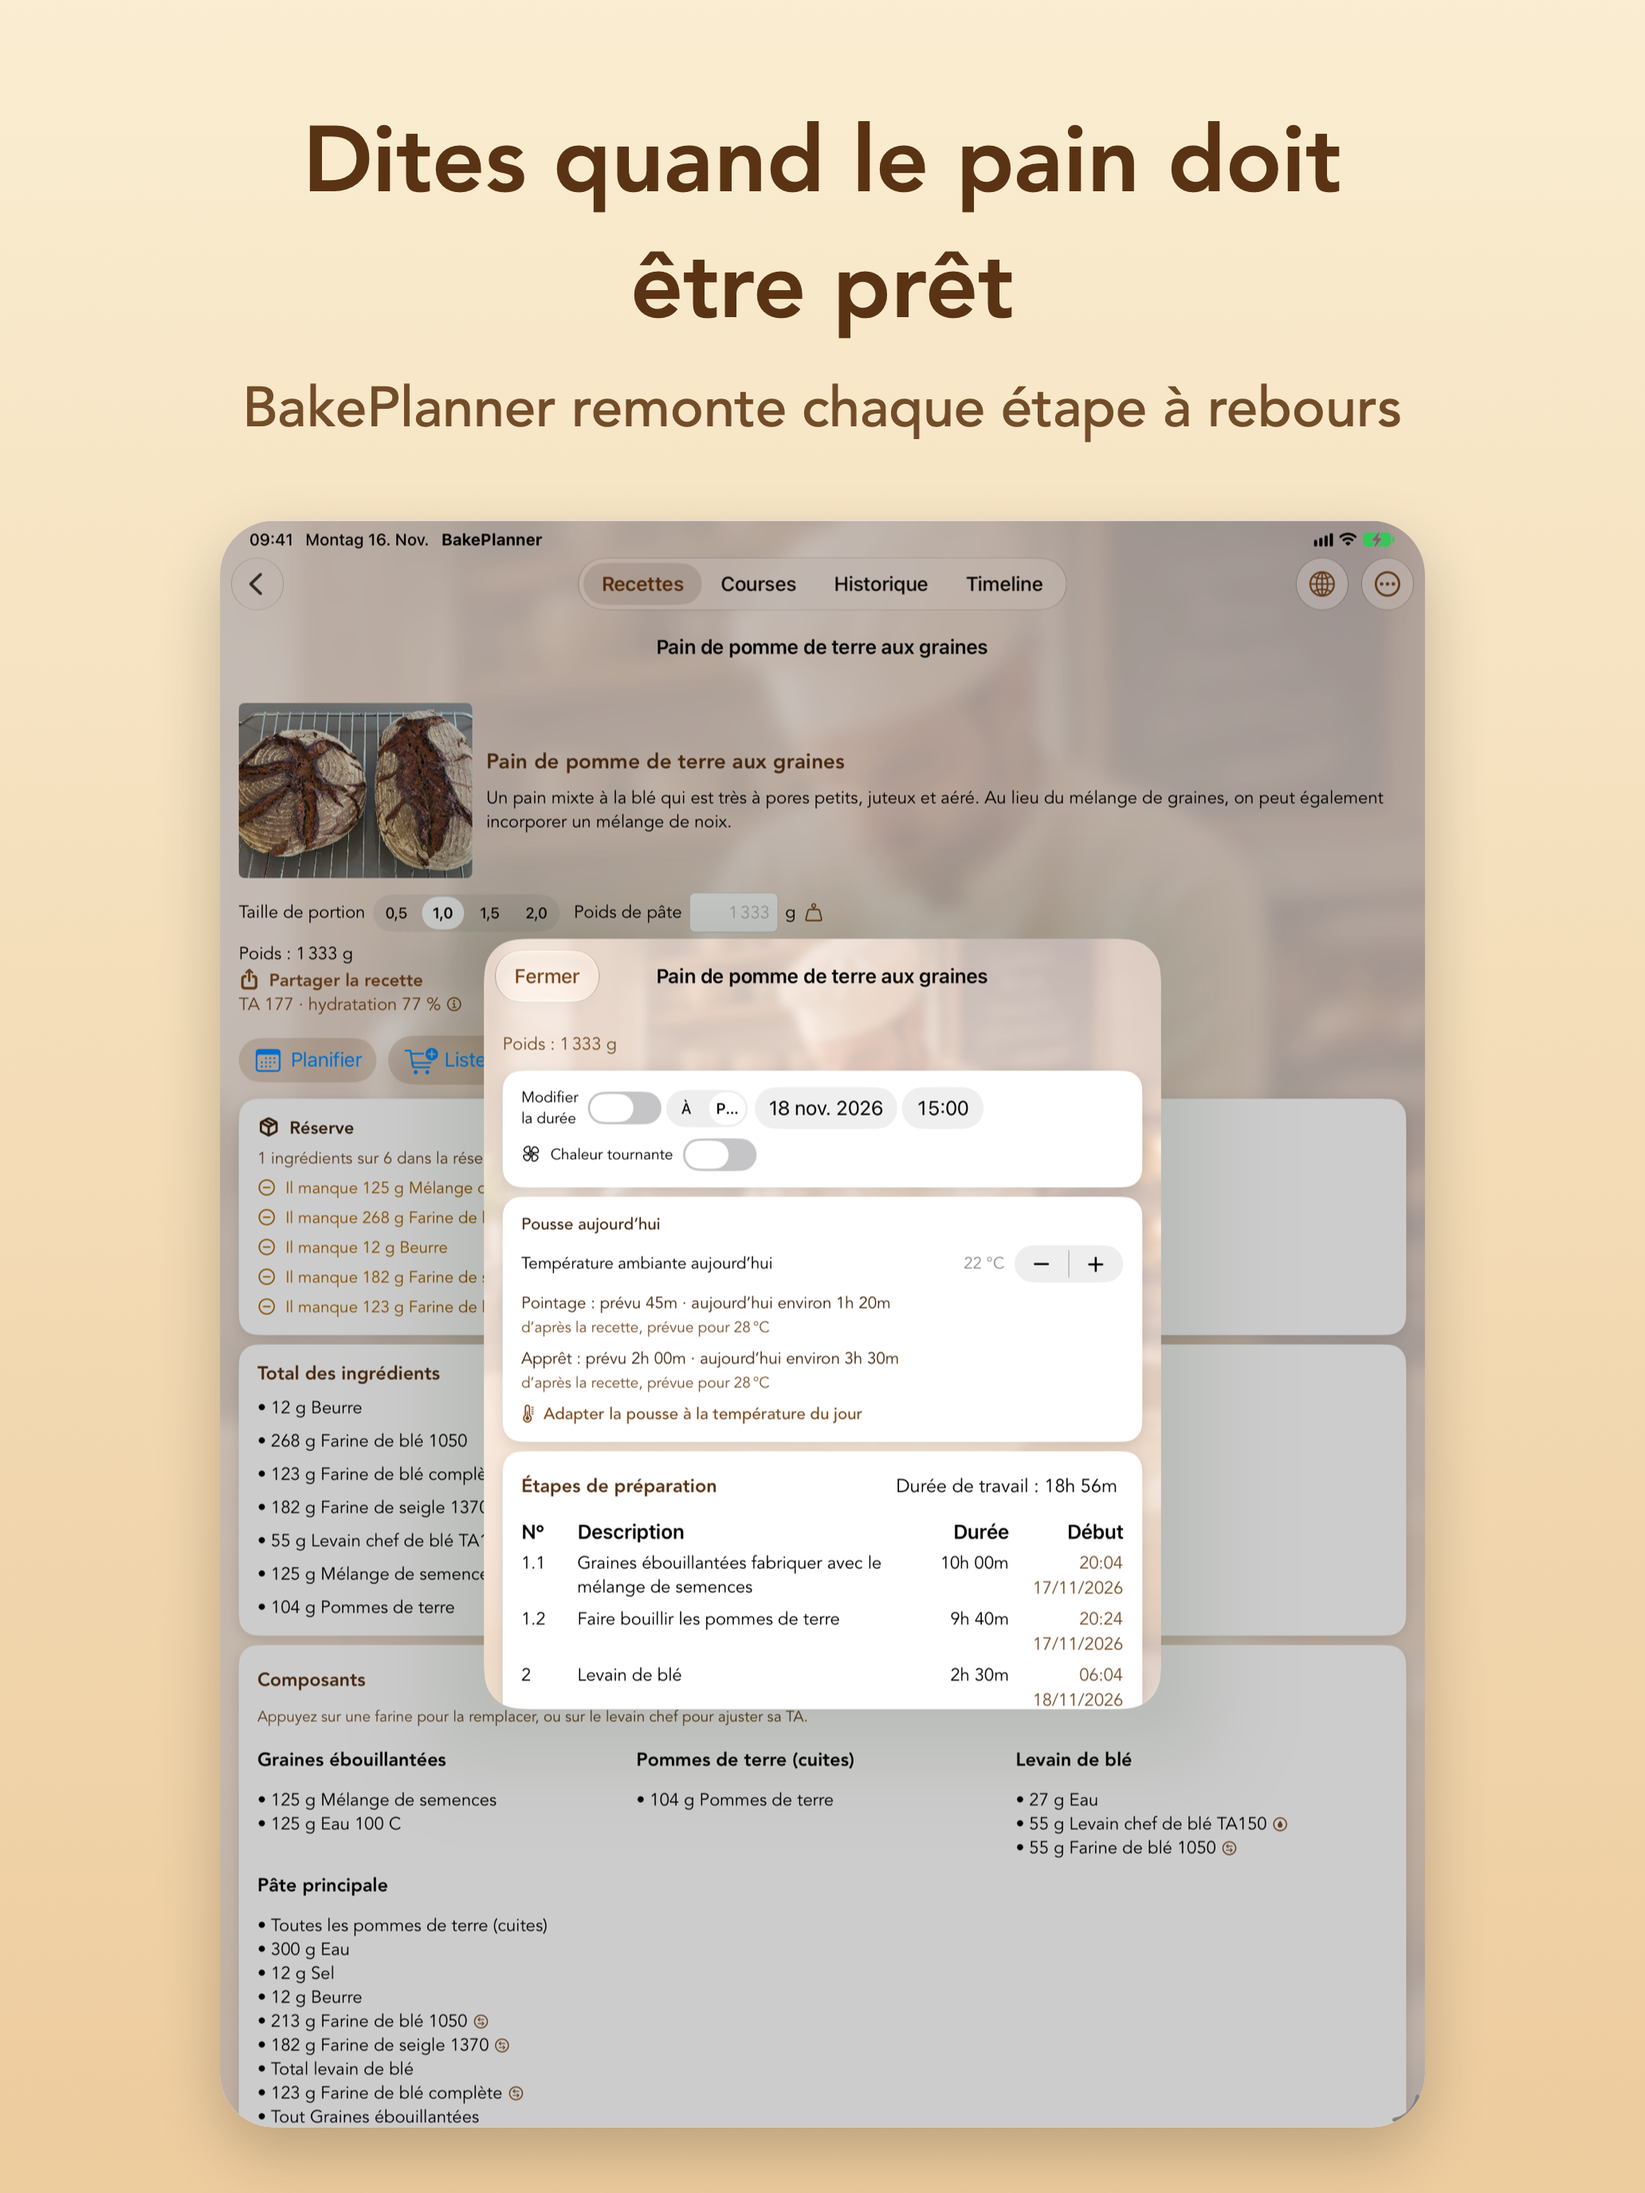
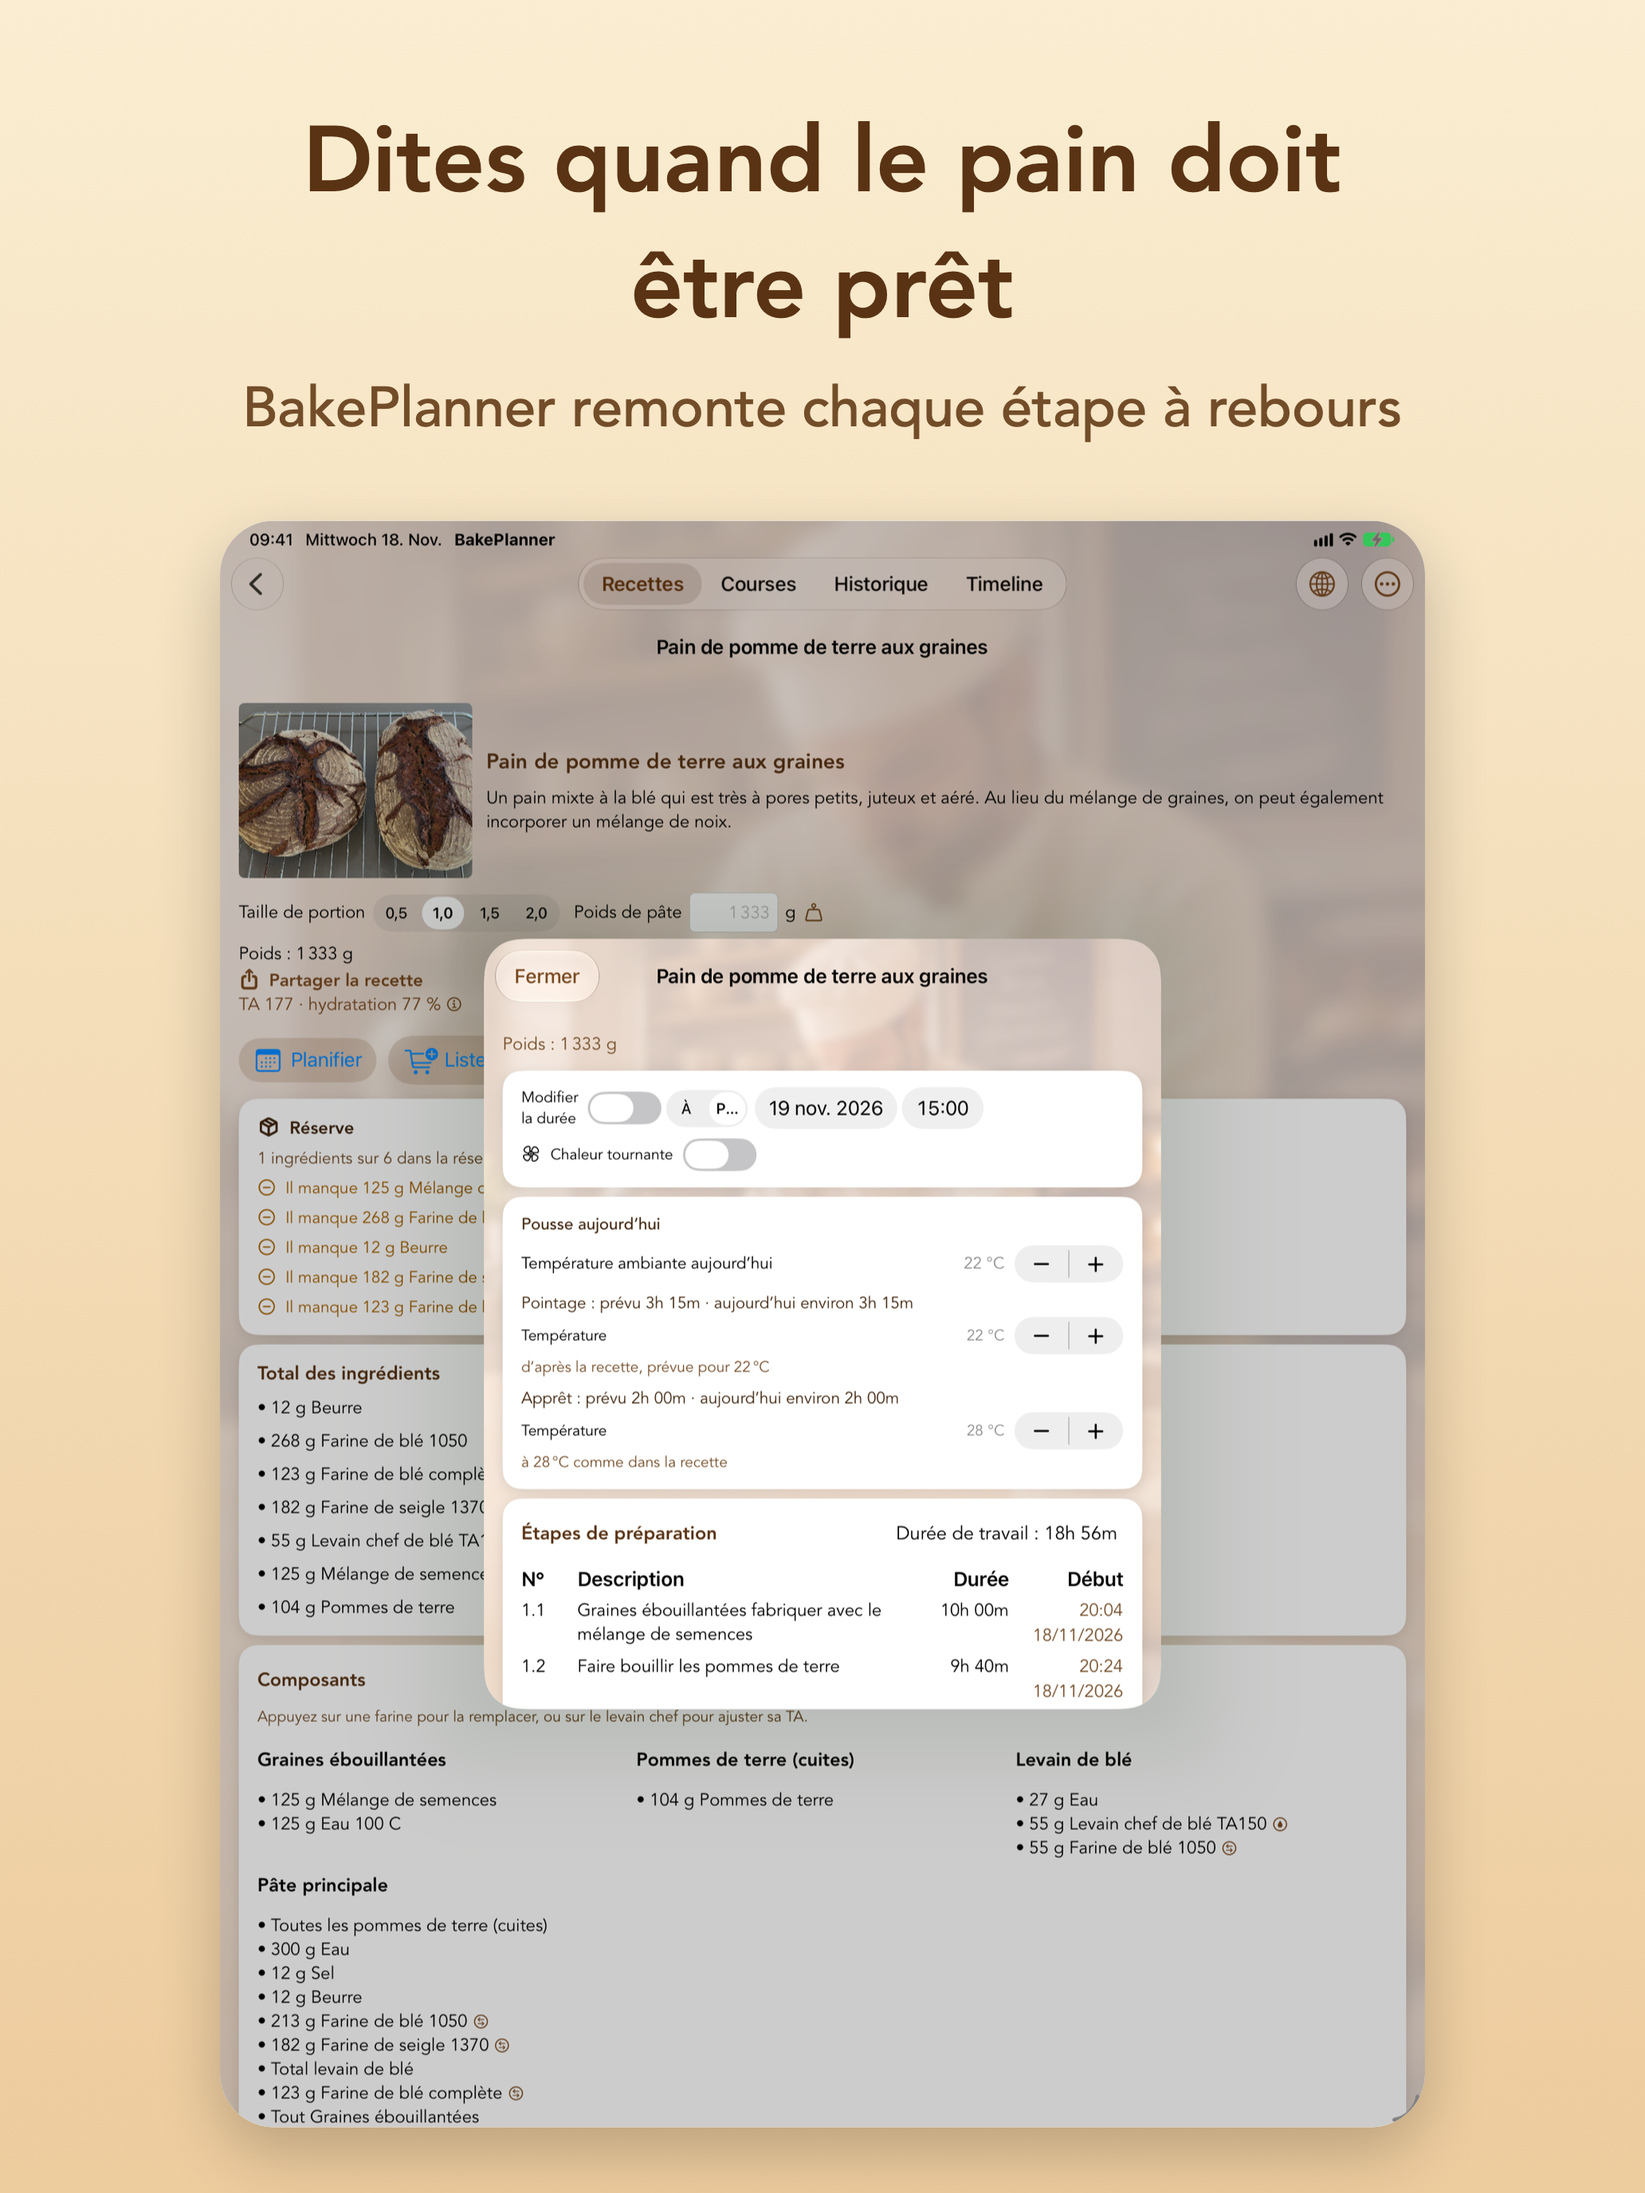
The App Store picture of the plan sheet shows "Gare heute" with a temperature per proof, on every device and in every language
- 01-rezept-backen renewed for iPhone 6.9", iPad 13", iPhone Duo folded
  and unfolded, de/en/fr: Stockgare 3h 15m at 22 °C, Stückgare 2h 00m
  "bei 28 °C wie im Rezept" (it read 3h 50m / 3h 30m before #157/#159).
- The French recipe's folds ("Étirer et plier") were no part of its bulk
  proof, which read 45 minutes; ProofTiming now knows "étirer" and
  "(re)plier", test with four wordings.
- appstore-screenshots.sh: STOP_AFTER=01 ends each run after that
  picture, to renew one picture into a scratch VERSION.

Changed region(s): [[0.3101, 0.5938, 0.7132, 0.7812], [0.2171, 0.2188, 0.3101, 0.25]]

diff --git a/BackPlanerUITests/AppStoreScreenshots.swift b/BackPlanerUITests/AppStoreScreenshots.swift
@@ -31,6 +31,8 @@
 //                            the Pro features — baking day, pantry,
 //                            statistics, starter chart — need it. Without
 //                            it those pictures are skipped.
+//    SCREENSHOT_STOP_AFTER   a picture's number, e.g. 01: the run ends after
+//                            it, for renewing one picture without the others
 //
 //  The screenshots are attachments of the test result, named
 //  "<language>-<number>-<screen>"; the script exports them from there. The
@@ -73,6 +75,12 @@ final class AppStoreScreenshots: StoreUITestCase {
 
     /// Whether the run takes the extra pictures (SCREENSHOT_EXTRAS).
     private var takesExtras = false
+
+    /// Whether the run ends after the picture of this number
+    /// (SCREENSHOT_STOP_AFTER).
+    private func stopsAfter(_ number: String) -> Bool {
+        ProcessInfo.processInfo.environment["SCREENSHOT_STOP_AFTER"] == number
+    }
 
     /// The start of the demo starter's name, as the recipe list shows it.
     private var starterName: String {
@@ -131,6 +139,7 @@ final class AppStoreScreenshots: StoreUITestCase {
         scrollToTop(controls)
         settle(1)
         capture("01-rezept-backen")
+        if stopsAfter("01") { return }
 
         // Plan it, so the start screen and the bake mode have a next step.
         let setReminders = app.buttons["plan.setReminders"]

diff --git a/BakePlannerCore/Sources/BakePlannerCore/ProofTiming.swift b/BakePlannerCore/Sources/BakePlannerCore/ProofTiming.swift
@@ -479,7 +479,11 @@ public enum ProofTiming {
     ]
     /// Folds happen during the bulk proof; a fold step with a duration is
     /// the rest until the next fold.
-    private static let foldPatterns = ["falten", "dehnen", #"\bfold"#, "rabat", "stretch"]
+    /// French translations write "Étirer et plier" / "replier" as often as
+    /// "rabattre"; without them the folds of a French recipe were no part of
+    /// its bulk proof, which then read 45 minutes instead of 3h 15m.
+    private static let foldPatterns = ["falten", "dehnen", #"\bfold"#, "rabat", "stretch",
+                                       #"\betir"#, #"\b(?:re)?pli(?:er|ez|e|es|age|ages)?\b"#]
     private static let prefermentPatterns = [
         "sauerteig", "vorteig", "poolish", #"\bbiga\b"#, "levain", "anstellgut", "pate fermentee",
         "pre-?ferment", #"\bsponge\b"#, #"\bstarter\b"#, "lievito", #"\bmadre\b"#

diff --git a/BakePlannerCore/Tests/BakePlannerCoreTests/ProofTimingTests.swift b/BakePlannerCore/Tests/BakePlannerCoreTests/ProofTimingTests.swift
@@ -339,5 +339,14 @@ struct ProofTimingTests {
         if case .bakes = adjustment.source {} else { Issue.record("expected an estimate from the bakes") }
         #expect(adjustment.minutes < 120)
     }
+
+    @Test("French folds count as part of the bulk proof, however the translation words them",
+          arguments: ["Étirer et plier", "Étirer et replier", "Étirer et rabattre", "Pliage"])
+    func frenchFolds(_ fold: String) {
+        let steps = ProofTiming.steps(instructions: ["Pétrir jusqu'à ce que la pâte soit lisse et laisser reposer", fold, fold,
+                                                     "Façonner en boule", "Laisser lever 2 heures à 28 °C dans le banneton"],
+                                      durations: [45, 30, 120, 10, 120])
+        #expect(steps.filter { $0.phase == .bulk }.map(\.minutes) == [45, 30, 120], "\(fold)")
+    }
 }
 
